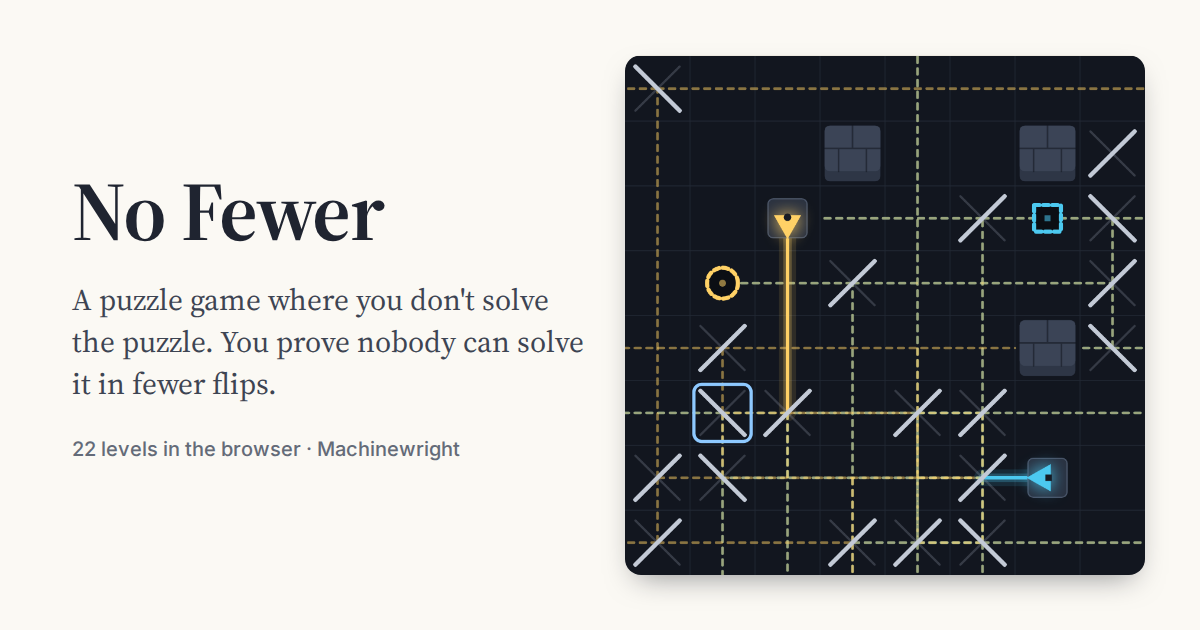
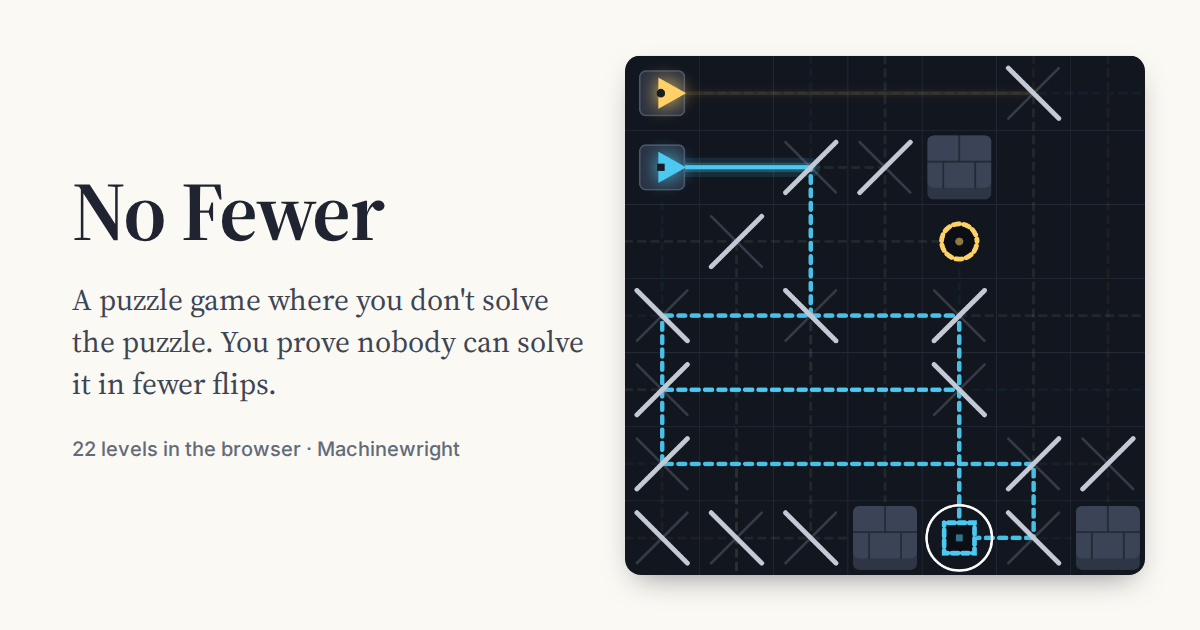
Ghost light: anchor dashes to the board so opposite beams on one line don't look solid

Changed region(s): [[0.5242, 0.0905, 0.9558, 0.9048]]

diff --git a/src/view.js b/src/view.js
@@ -40,7 +40,14 @@ export function drawBoard(canvas, g, decided, { focus = -1, fadeUnreached = true
   for (let i = 1; i < g.w; i++) { ctx.beginPath(); ctx.moveTo(i * cell, 0); ctx.lineTo(i * cell, g.h * cell); ctx.stroke(); }
   for (let i = 1; i < g.h; i++) { ctx.beginPath(); ctx.moveTo(0, i * cell); ctx.lineTo(W, i * cell); ctx.stroke(); }
   ctx.lineCap = 'round';
-  const line = (s) => { ctx.beginPath(); ctx.moveTo(cx(s.x1), cy(s.y1)); ctx.lineTo(cx(s.x2), cy(s.y2)); ctx.stroke(); };
+  // Dashes are anchored to the board, not the segment: two ghost beams running opposite ways along the same line must
+  // overlap dash on dash, or their gaps fill each other in and the pair looks like solid (certain) light.
+  const line = (s) => {
+    let { x1, y1, x2, y2 } = s;
+    if (x2 < x1 || y2 < y1) [x1, y1, x2, y2] = [x2, y2, x1, y1];
+    ctx.lineDashOffset = x1 === x2 ? cy(y1) : cx(x1);
+    ctx.beginPath(); ctx.moveTo(cx(x1), cy(y1)); ctx.lineTo(cx(x2), cy(y2)); ctx.stroke();
+  };
   ctx.strokeStyle = COLORS.ghost; ctx.lineWidth = Math.max(1.5, cell * 0.04); ctx.setLineDash([cell * 0.09, cell * 0.09]);
   // feedTarget: show only light that can still reach that target; the rest is drawn faintly
   const feed = feedTarget >= 0 ? feedEdges(g, decided, feedTarget) : null;

diff --git a/scripts/og.py b/scripts/og.py
@@ -1,4 +1,4 @@
-# Renders og.png (1200x630): the title next to level 18 with one target's supply lines shown.
+# Renders og.png (1200x630): the title next to level 17 with the cyan target's supply lines shown.
 # Needs the local server: python3 -m http.server 8772 --bind 127.0.0.1 (from the repo root).
 import asyncio, base64
 from playwright.async_api import async_playwright
@@ -8,9 +8,9 @@ async def main():
         ctx = await b.new_context(viewport={'width': 1100, 'height': 1000}, device_scale_factor=2, reduced_motion='reduce')
         pg = await ctx.new_page()
         await pg.goto('http://127.0.0.1:8772/index.html'); await pg.wait_for_timeout(800)
-        await pg.locator('#levels button').nth(17).click()
-        c = pg.locator('canvas'); bb = await c.bounding_box(); cs = bb['width'] / 9
-        await pg.mouse.click(bb['x'] + cs * 1.5, bb['y'] + cs * 6.5); await pg.wait_for_timeout(200)
+        await pg.locator('#levels button').nth(16).click()
+        c = pg.locator('canvas'); bb = await c.bounding_box(); cs = bb['width'] / 7
+        await pg.mouse.click(bb['x'] + cs * 4.5, bb['y'] + cs * 6.5); await pg.wait_for_timeout(200)
         png = await c.screenshot()
         card = await b.new_page(viewport={'width': 1200, 'height': 630})
         serif = base64.b64encode(open('fonts/source-serif-4-latin-opsz-normal.woff2', 'rb').read()).decode()
